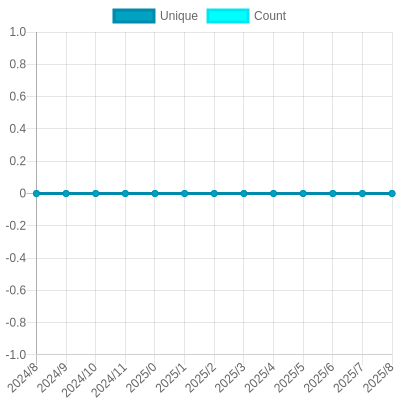
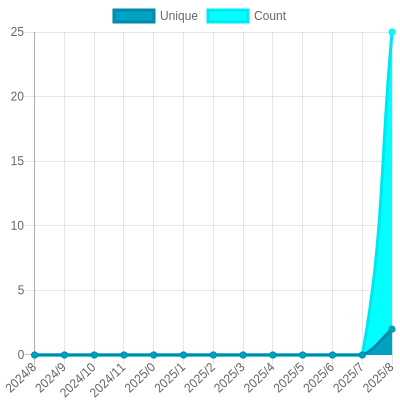
Update views

diff --git a/README.md b/README.md
@@ -26,7 +26,7 @@ The project created and maintained by [gayanvoice](https://github.com/gayanvoice
 			</a>
 		</td>
 		<td>
-			2024/9/3 1:25 AM UTC
+			2024/9/4 1:25 AM UTC
 		</td>
 		<td>
 			0
@@ -37,7 +37,7 @@ The project created and maintained by [gayanvoice](https://github.com/gayanvoice
 	</tr>
 </table>
 
-<small><i>Last updated on 2024/9/6 1:25 AM UTC</i></small>
+<small><i>Last updated on 2024/9/6 6:18 AM UTC</i></small>
 
 ## ✂Copy and 📋 Paste
 ### Total Views Badge

diff --git a/readme/853092385/year.md b/readme/853092385/year.md
@@ -23,10 +23,10 @@
 			<code>2024/9/1</code>
 		</td>
 		<td>
-			<code>0</code>
+			<code>2</code>
 		</td>
 		<td>
-			<code>0</code>
+			<code>25</code>
 		</td>
 	</tr>
 	<tr>
@@ -164,7 +164,7 @@
 </table>
 
 </details>
-<small><i>Last updated on 2024/9/6 1:25 AM UTC</i></small>
+<small><i>Last updated on 2024/9/6 6:18 AM UTC</i></small>
 
 ## ✂Copy and 📋 Paste
 ### SVG Badge
